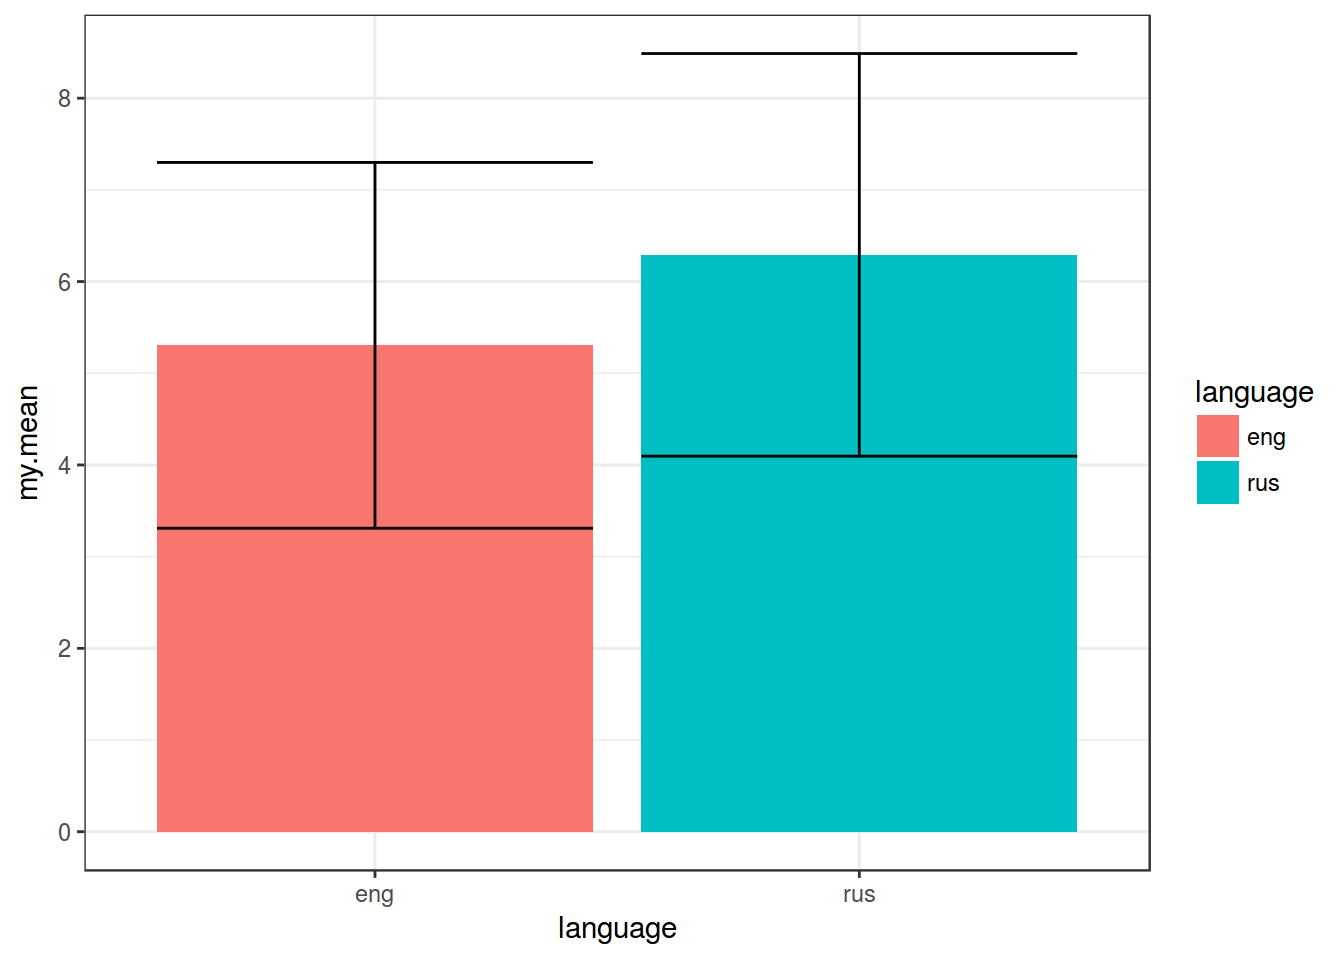
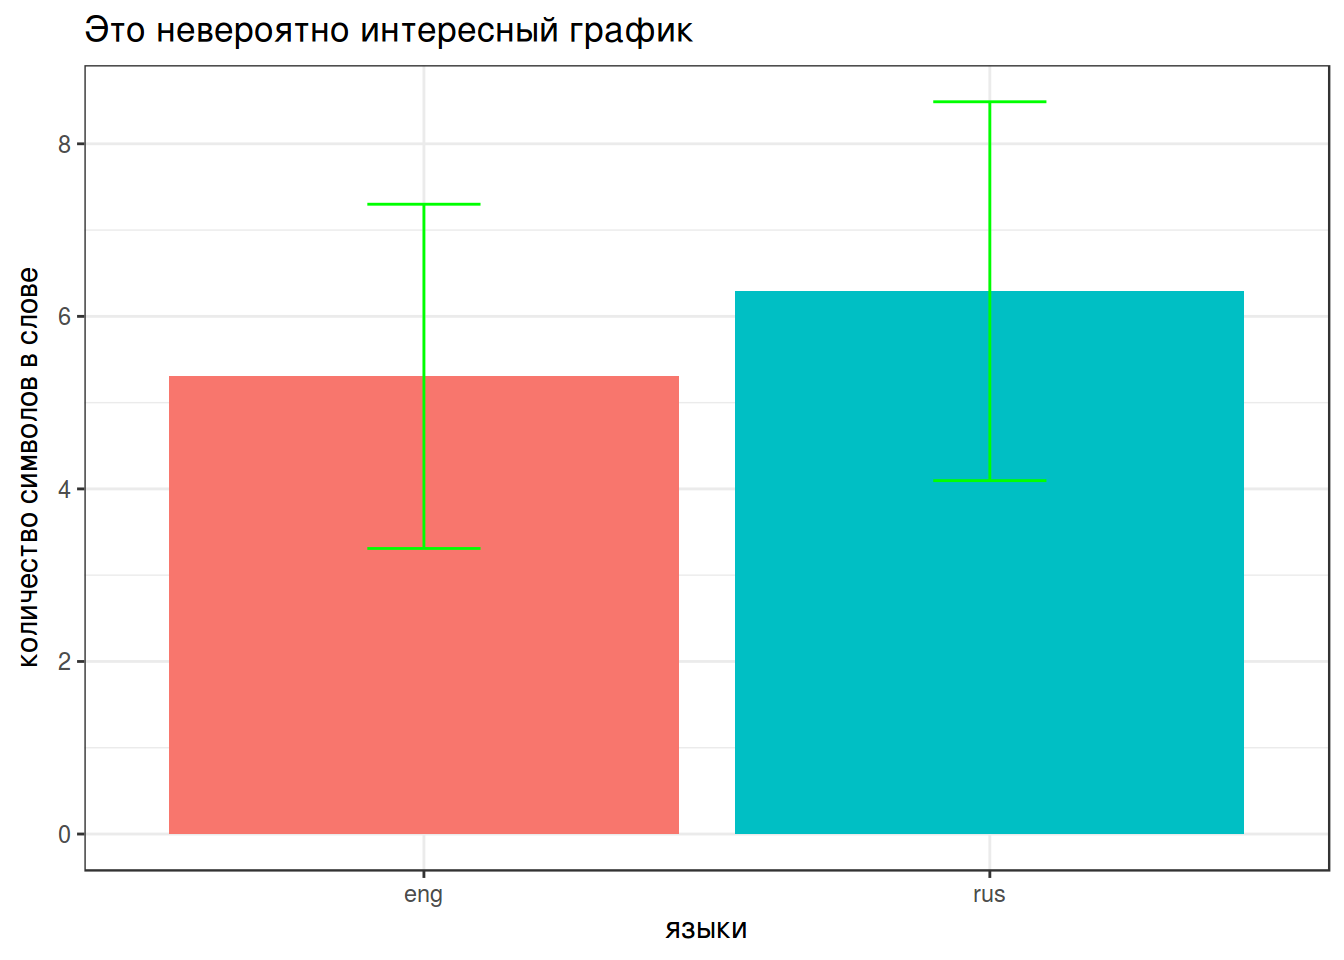
Вт. янв. 31 21:57:35 MSK 2017

diff --git a/docs/Lab_5.html b/docs/Lab_5.html
@@ -260,8 +260,8 @@ mtcars %&gt;%
   p
 
 ggplotly(p)</code></pre>
-<div id="htmlwidget-5e13b1681ace34887a30" style="width:672px;height:480px;" class="plotly html-widget"></div>
-<script type="application/json" data-for="htmlwidget-5e13b1681ace34887a30">{"x":{"data":[{"x":[22.8,24.4,22.8,32.4,30.4,33.9,21.5,27.3,26,30.4,21.4],"y":[108,146.7,140.8,78.7,75.7,71.1,120.1,79,120.3,95.1,121],"text":["mpg: 22.8<br>disp: 108<br>car.name: Datsun 710<br>factor(cyl): 4","mpg: 24.4<br>disp: 146.7<br>car.name: Merc 240D<br>factor(cyl): 4","mpg: 22.8<br>disp: 140.8<br>car.name: Merc 230<br>factor(cyl): 4","mpg: 32.4<br>disp: 78.7<br>car.name: Fiat 128<br>factor(cyl): 4","mpg: 30.4<br>disp: 75.7<br>car.name: Honda Civic<br>factor(cyl): 4","mpg: 33.9<br>disp: 71.1<br>car.name: Toyota Corolla<br>factor(cyl): 4","mpg: 21.5<br>disp: 120.1<br>car.name: Toyota Corona<br>factor(cyl): 4","mpg: 27.3<br>disp: 79<br>car.name: Fiat X1-9<br>factor(cyl): 4","mpg: 26<br>disp: 120.3<br>car.name: Porsche 914-2<br>factor(cyl): 4","mpg: 30.4<br>disp: 95.1<br>car.name: Lotus Europa<br>factor(cyl): 4","mpg: 21.4<br>disp: 121<br>car.name: Volvo 142E<br>factor(cyl): 4"],"key":null,"type":"scatter","mode":"markers","marker":{"autocolorscale":false,"color":"rgba(248,118,109,1)","opacity":1,"size":5.66929133858268,"symbol":"circle","line":{"width":1.88976377952756,"color":"rgba(248,118,109,1)"}},"hoveron":"points","name":"4","legendgroup":"4","showlegend":true,"xaxis":"x","yaxis":"y","hoverinfo":"text"},{"x":[21,21,21.4,18.1,19.2,17.8,19.7],"y":[160,160,258,225,167.6,167.6,145],"text":["mpg: 21<br>disp: 160<br>car.name: Mazda RX4<br>factor(cyl): 6","mpg: 21<br>disp: 160<br>car.name: Mazda RX4 Wag<br>factor(cyl): 6","mpg: 21.4<br>disp: 258<br>car.name: Hornet 4 Drive<br>factor(cyl): 6","mpg: 18.1<br>disp: 225<br>car.name: Valiant<br>factor(cyl): 6","mpg: 19.2<br>disp: 167.6<br>car.name: Merc 280<br>factor(cyl): 6","mpg: 17.8<br>disp: 167.6<br>car.name: Merc 280C<br>factor(cyl): 6","mpg: 19.7<br>disp: 145<br>car.name: Ferrari Dino<br>factor(cyl): 6"],"key":null,"type":"scatter","mode":"markers","marker":{"autocolorscale":false,"color":"rgba(0,186,56,1)","opacity":1,"size":5.66929133858268,"symbol":"circle","line":{"width":1.88976377952756,"color":"rgba(0,186,56,1)"}},"hoveron":"points","name":"6","legendgroup":"6","showlegend":true,"xaxis":"x","yaxis":"y","hoverinfo":"text"},{"x":[18.7,14.3,16.4,17.3,15.2,10.4,10.4,14.7,15.5,15.2,13.3,19.2,15.8,15],"y":[360,360,275.8,275.8,275.8,472,460,440,318,304,350,400,351,301],"text":["mpg: 18.7<br>disp: 360<br>car.name: Hornet Sportabout<br>factor(cyl): 8","mpg: 14.3<br>disp: 360<br>car.name: Duster 360<br>factor(cyl): 8","mpg: 16.4<br>disp: 275.8<br>car.name: Merc 450SE<br>factor(cyl): 8","mpg: 17.3<br>disp: 275.8<br>car.name: Merc 450SL<br>factor(cyl): 8","mpg: 15.2<br>disp: 275.8<br>car.name: Merc 450SLC<br>factor(cyl): 8","mpg: 10.4<br>disp: 472<br>car.name: Cadillac Fleetwood<br>factor(cyl): 8","mpg: 10.4<br>disp: 460<br>car.name: Lincoln Continental<br>factor(cyl): 8","mpg: 14.7<br>disp: 440<br>car.name: Chrysler Imperial<br>factor(cyl): 8","mpg: 15.5<br>disp: 318<br>car.name: Dodge Challenger<br>factor(cyl): 8","mpg: 15.2<br>disp: 304<br>car.name: AMC Javelin<br>factor(cyl): 8","mpg: 13.3<br>disp: 350<br>car.name: Camaro Z28<br>factor(cyl): 8","mpg: 19.2<br>disp: 400<br>car.name: Pontiac Firebird<br>factor(cyl): 8","mpg: 15.8<br>disp: 351<br>car.name: Ford Pantera L<br>factor(cyl): 8","mpg: 15<br>disp: 301<br>car.name: Maserati Bora<br>factor(cyl): 8"],"key":null,"type":"scatter","mode":"markers","marker":{"autocolorscale":false,"color":"rgba(97,156,255,1)","opacity":1,"size":5.66929133858268,"symbol":"circle","line":{"width":1.88976377952756,"color":"rgba(97,156,255,1)"}},"hoveron":"points","name":"8","legendgroup":"8","showlegend":true,"xaxis":"x","yaxis":"y","hoverinfo":"text"}],"layout":{"margin":{"t":26.2283105022831,"r":7.30593607305936,"b":40.1826484018265,"l":43.1050228310502},"plot_bgcolor":"rgba(235,235,235,1)","paper_bgcolor":"rgba(255,255,255,1)","font":{"color":"rgba(0,0,0,1)","family":"","size":14.6118721461187},"xaxis":{"domain":[0,1],"type":"linear","autorange":false,"tickmode":"array","range":[9.225,35.075],"ticktext":["10","15","20","25","30","35"],"tickvals":[10,15,20,25,30,35],"ticks":"outside","tickcolor":"rgba(51,51,51,1)","ticklen":3.65296803652968,"tickwidth":0.66417600664176,"showticklabels":true,"tickfont":{"color":"rgba(77,77,77,1)","family":"","size":11.689497716895},"tickangle":-0,"showline":false,"linecolor":null,"linewidth":0,"showgrid":true,"gridcolor":"rgba(255,255,255,1)","gridwidth":0.66417600664176,"zeroline":false,"anchor":"y","title":"mpg","titlefont":{"color":"rgba(0,0,0,1)","family":"","size":14.6118721461187},"hoverformat":".2f"},"yaxis":{"domain":[0,1],"type":"linear","autorange":false,"tickmode":"array","range":[51.055,492.045],"ticktext":["100","200","300","400"],"tickvals":[100,200,300,400],"ticks":"outside","tickcolor":"rgba(51,51,51,1)","ticklen":3.65296803652968,"tickwidth":0.66417600664176,"showticklabels":true,"tickfont":{"color":"rgba(77,77,77,1)","family":"","size":11.689497716895},"tickangle":-0,"showline":false,"linecolor":null,"linewidth":0,"showgrid":true,"gridcolor":"rgba(255,255,255,1)","gridwidth":0.66417600664176,"zeroline":false,"anchor":"x","title":"disp","titlefont":{"color":"rgba(0,0,0,1)","family":"","size":14.6118721461187},"hoverformat":".2f"},"shapes":[{"type":"rect","fillcolor":null,"line":{"color":null,"width":0,"linetype":[]},"yref":"paper","xref":"paper","x0":0,"x1":1,"y0":0,"y1":1}],"showlegend":true,"legend":{"bgcolor":"rgba(255,255,255,1)","bordercolor":"transparent","borderwidth":1.88976377952756,"font":{"color":"rgba(0,0,0,1)","family":"","size":11.689497716895},"y":0.93503937007874},"annotations":[{"text":"factor(cyl)","x":1.02,"y":1,"showarrow":false,"ax":0,"ay":0,"font":{"color":"rgba(0,0,0,1)","family":"","size":14.6118721461187},"xref":"paper","yref":"paper","textangle":-0,"xanchor":"left","yanchor":"bottom","legendTitle":true}],"hovermode":"closest"},"source":"A","config":{"modeBarButtonsToAdd":[{"name":"Collaborate","icon":{"width":1000,"ascent":500,"descent":-50,"path":"M487 375c7-10 9-23 5-36l-79-259c-3-12-11-23-22-31-11-8-22-12-35-12l-263 0c-15 0-29 5-43 15-13 10-23 23-28 37-5 13-5 25-1 37 0 0 0 3 1 7 1 5 1 8 1 11 0 2 0 4-1 6 0 3-1 5-1 6 1 2 2 4 3 6 1 2 2 4 4 6 2 3 4 5 5 7 5 7 9 16 13 26 4 10 7 19 9 26 0 2 0 5 0 9-1 4-1 6 0 8 0 2 2 5 4 8 3 3 5 5 5 7 4 6 8 15 12 26 4 11 7 19 7 26 1 1 0 4 0 9-1 4-1 7 0 8 1 2 3 5 6 8 4 4 6 6 6 7 4 5 8 13 13 24 4 11 7 20 7 28 1 1 0 4 0 7-1 3-1 6-1 7 0 2 1 4 3 6 1 1 3 4 5 6 2 3 3 5 5 6 1 2 3 5 4 9 2 3 3 7 5 10 1 3 2 6 4 10 2 4 4 7 6 9 2 3 4 5 7 7 3 2 7 3 11 3 3 0 8 0 13-1l0-1c7 2 12 2 14 2l218 0c14 0 25-5 32-16 8-10 10-23 6-37l-79-259c-7-22-13-37-20-43-7-7-19-10-37-10l-248 0c-5 0-9-2-11-5-2-3-2-7 0-12 4-13 18-20 41-20l264 0c5 0 10 2 16 5 5 3 8 6 10 11l85 282c2 5 2 10 2 17 7-3 13-7 17-13z m-304 0c-1-3-1-5 0-7 1-1 3-2 6-2l174 0c2 0 4 1 7 2 2 2 4 4 5 7l6 18c0 3 0 5-1 7-1 1-3 2-6 2l-173 0c-3 0-5-1-8-2-2-2-4-4-4-7z m-24-73c-1-3-1-5 0-7 2-2 3-2 6-2l174 0c2 0 5 0 7 2 3 2 4 4 5 7l6 18c1 2 0 5-1 6-1 2-3 3-5 3l-174 0c-3 0-5-1-7-3-3-1-4-4-5-6z"},"click":"function(gd) { \n        // is this being viewed in RStudio?\n        if (location.search == '?viewer_pane=1') {\n          alert('To learn about plotly for collaboration, visit:\\n https://cpsievert.github.io/plotly_book/plot-ly-for-collaboration.html');\n        } else {\n          window.open('https://cpsievert.github.io/plotly_book/plot-ly-for-collaboration.html', '_blank');\n        }\n      }"}],"modeBarButtonsToRemove":["sendDataToCloud"]},"base_url":"https://plot.ly"},"evals":["config.modeBarButtonsToAdd.0.click"],"jsHooks":[]}</script>
+<div id="htmlwidget-f9fd5c7c1101c2017664" style="width:672px;height:480px;" class="plotly html-widget"></div>
+<script type="application/json" data-for="htmlwidget-f9fd5c7c1101c2017664">{"x":{"data":[{"x":[22.8,24.4,22.8,32.4,30.4,33.9,21.5,27.3,26,30.4,21.4],"y":[108,146.7,140.8,78.7,75.7,71.1,120.1,79,120.3,95.1,121],"text":["mpg: 22.8<br>disp: 108<br>car.name: Datsun 710<br>factor(cyl): 4","mpg: 24.4<br>disp: 146.7<br>car.name: Merc 240D<br>factor(cyl): 4","mpg: 22.8<br>disp: 140.8<br>car.name: Merc 230<br>factor(cyl): 4","mpg: 32.4<br>disp: 78.7<br>car.name: Fiat 128<br>factor(cyl): 4","mpg: 30.4<br>disp: 75.7<br>car.name: Honda Civic<br>factor(cyl): 4","mpg: 33.9<br>disp: 71.1<br>car.name: Toyota Corolla<br>factor(cyl): 4","mpg: 21.5<br>disp: 120.1<br>car.name: Toyota Corona<br>factor(cyl): 4","mpg: 27.3<br>disp: 79<br>car.name: Fiat X1-9<br>factor(cyl): 4","mpg: 26<br>disp: 120.3<br>car.name: Porsche 914-2<br>factor(cyl): 4","mpg: 30.4<br>disp: 95.1<br>car.name: Lotus Europa<br>factor(cyl): 4","mpg: 21.4<br>disp: 121<br>car.name: Volvo 142E<br>factor(cyl): 4"],"key":null,"type":"scatter","mode":"markers","marker":{"autocolorscale":false,"color":"rgba(248,118,109,1)","opacity":1,"size":5.66929133858268,"symbol":"circle","line":{"width":1.88976377952756,"color":"rgba(248,118,109,1)"}},"hoveron":"points","name":"4","legendgroup":"4","showlegend":true,"xaxis":"x","yaxis":"y","hoverinfo":"text"},{"x":[21,21,21.4,18.1,19.2,17.8,19.7],"y":[160,160,258,225,167.6,167.6,145],"text":["mpg: 21<br>disp: 160<br>car.name: Mazda RX4<br>factor(cyl): 6","mpg: 21<br>disp: 160<br>car.name: Mazda RX4 Wag<br>factor(cyl): 6","mpg: 21.4<br>disp: 258<br>car.name: Hornet 4 Drive<br>factor(cyl): 6","mpg: 18.1<br>disp: 225<br>car.name: Valiant<br>factor(cyl): 6","mpg: 19.2<br>disp: 167.6<br>car.name: Merc 280<br>factor(cyl): 6","mpg: 17.8<br>disp: 167.6<br>car.name: Merc 280C<br>factor(cyl): 6","mpg: 19.7<br>disp: 145<br>car.name: Ferrari Dino<br>factor(cyl): 6"],"key":null,"type":"scatter","mode":"markers","marker":{"autocolorscale":false,"color":"rgba(0,186,56,1)","opacity":1,"size":5.66929133858268,"symbol":"circle","line":{"width":1.88976377952756,"color":"rgba(0,186,56,1)"}},"hoveron":"points","name":"6","legendgroup":"6","showlegend":true,"xaxis":"x","yaxis":"y","hoverinfo":"text"},{"x":[18.7,14.3,16.4,17.3,15.2,10.4,10.4,14.7,15.5,15.2,13.3,19.2,15.8,15],"y":[360,360,275.8,275.8,275.8,472,460,440,318,304,350,400,351,301],"text":["mpg: 18.7<br>disp: 360<br>car.name: Hornet Sportabout<br>factor(cyl): 8","mpg: 14.3<br>disp: 360<br>car.name: Duster 360<br>factor(cyl): 8","mpg: 16.4<br>disp: 275.8<br>car.name: Merc 450SE<br>factor(cyl): 8","mpg: 17.3<br>disp: 275.8<br>car.name: Merc 450SL<br>factor(cyl): 8","mpg: 15.2<br>disp: 275.8<br>car.name: Merc 450SLC<br>factor(cyl): 8","mpg: 10.4<br>disp: 472<br>car.name: Cadillac Fleetwood<br>factor(cyl): 8","mpg: 10.4<br>disp: 460<br>car.name: Lincoln Continental<br>factor(cyl): 8","mpg: 14.7<br>disp: 440<br>car.name: Chrysler Imperial<br>factor(cyl): 8","mpg: 15.5<br>disp: 318<br>car.name: Dodge Challenger<br>factor(cyl): 8","mpg: 15.2<br>disp: 304<br>car.name: AMC Javelin<br>factor(cyl): 8","mpg: 13.3<br>disp: 350<br>car.name: Camaro Z28<br>factor(cyl): 8","mpg: 19.2<br>disp: 400<br>car.name: Pontiac Firebird<br>factor(cyl): 8","mpg: 15.8<br>disp: 351<br>car.name: Ford Pantera L<br>factor(cyl): 8","mpg: 15<br>disp: 301<br>car.name: Maserati Bora<br>factor(cyl): 8"],"key":null,"type":"scatter","mode":"markers","marker":{"autocolorscale":false,"color":"rgba(97,156,255,1)","opacity":1,"size":5.66929133858268,"symbol":"circle","line":{"width":1.88976377952756,"color":"rgba(97,156,255,1)"}},"hoveron":"points","name":"8","legendgroup":"8","showlegend":true,"xaxis":"x","yaxis":"y","hoverinfo":"text"}],"layout":{"margin":{"t":26.2283105022831,"r":7.30593607305936,"b":40.1826484018265,"l":43.1050228310502},"plot_bgcolor":"rgba(235,235,235,1)","paper_bgcolor":"rgba(255,255,255,1)","font":{"color":"rgba(0,0,0,1)","family":"","size":14.6118721461187},"xaxis":{"domain":[0,1],"type":"linear","autorange":false,"tickmode":"array","range":[9.225,35.075],"ticktext":["10","15","20","25","30","35"],"tickvals":[10,15,20,25,30,35],"ticks":"outside","tickcolor":"rgba(51,51,51,1)","ticklen":3.65296803652968,"tickwidth":0.66417600664176,"showticklabels":true,"tickfont":{"color":"rgba(77,77,77,1)","family":"","size":11.689497716895},"tickangle":-0,"showline":false,"linecolor":null,"linewidth":0,"showgrid":true,"gridcolor":"rgba(255,255,255,1)","gridwidth":0.66417600664176,"zeroline":false,"anchor":"y","title":"mpg","titlefont":{"color":"rgba(0,0,0,1)","family":"","size":14.6118721461187},"hoverformat":".2f"},"yaxis":{"domain":[0,1],"type":"linear","autorange":false,"tickmode":"array","range":[51.055,492.045],"ticktext":["100","200","300","400"],"tickvals":[100,200,300,400],"ticks":"outside","tickcolor":"rgba(51,51,51,1)","ticklen":3.65296803652968,"tickwidth":0.66417600664176,"showticklabels":true,"tickfont":{"color":"rgba(77,77,77,1)","family":"","size":11.689497716895},"tickangle":-0,"showline":false,"linecolor":null,"linewidth":0,"showgrid":true,"gridcolor":"rgba(255,255,255,1)","gridwidth":0.66417600664176,"zeroline":false,"anchor":"x","title":"disp","titlefont":{"color":"rgba(0,0,0,1)","family":"","size":14.6118721461187},"hoverformat":".2f"},"shapes":[{"type":"rect","fillcolor":null,"line":{"color":null,"width":0,"linetype":[]},"yref":"paper","xref":"paper","x0":0,"x1":1,"y0":0,"y1":1}],"showlegend":true,"legend":{"bgcolor":"rgba(255,255,255,1)","bordercolor":"transparent","borderwidth":1.88976377952756,"font":{"color":"rgba(0,0,0,1)","family":"","size":11.689497716895},"y":0.93503937007874},"annotations":[{"text":"factor(cyl)","x":1.02,"y":1,"showarrow":false,"ax":0,"ay":0,"font":{"color":"rgba(0,0,0,1)","family":"","size":14.6118721461187},"xref":"paper","yref":"paper","textangle":-0,"xanchor":"left","yanchor":"bottom","legendTitle":true}],"hovermode":"closest"},"source":"A","config":{"modeBarButtonsToAdd":[{"name":"Collaborate","icon":{"width":1000,"ascent":500,"descent":-50,"path":"M487 375c7-10 9-23 5-36l-79-259c-3-12-11-23-22-31-11-8-22-12-35-12l-263 0c-15 0-29 5-43 15-13 10-23 23-28 37-5 13-5 25-1 37 0 0 0 3 1 7 1 5 1 8 1 11 0 2 0 4-1 6 0 3-1 5-1 6 1 2 2 4 3 6 1 2 2 4 4 6 2 3 4 5 5 7 5 7 9 16 13 26 4 10 7 19 9 26 0 2 0 5 0 9-1 4-1 6 0 8 0 2 2 5 4 8 3 3 5 5 5 7 4 6 8 15 12 26 4 11 7 19 7 26 1 1 0 4 0 9-1 4-1 7 0 8 1 2 3 5 6 8 4 4 6 6 6 7 4 5 8 13 13 24 4 11 7 20 7 28 1 1 0 4 0 7-1 3-1 6-1 7 0 2 1 4 3 6 1 1 3 4 5 6 2 3 3 5 5 6 1 2 3 5 4 9 2 3 3 7 5 10 1 3 2 6 4 10 2 4 4 7 6 9 2 3 4 5 7 7 3 2 7 3 11 3 3 0 8 0 13-1l0-1c7 2 12 2 14 2l218 0c14 0 25-5 32-16 8-10 10-23 6-37l-79-259c-7-22-13-37-20-43-7-7-19-10-37-10l-248 0c-5 0-9-2-11-5-2-3-2-7 0-12 4-13 18-20 41-20l264 0c5 0 10 2 16 5 5 3 8 6 10 11l85 282c2 5 2 10 2 17 7-3 13-7 17-13z m-304 0c-1-3-1-5 0-7 1-1 3-2 6-2l174 0c2 0 4 1 7 2 2 2 4 4 5 7l6 18c0 3 0 5-1 7-1 1-3 2-6 2l-173 0c-3 0-5-1-8-2-2-2-4-4-4-7z m-24-73c-1-3-1-5 0-7 2-2 3-2 6-2l174 0c2 0 5 0 7 2 3 2 4 4 5 7l6 18c1 2 0 5-1 6-1 2-3 3-5 3l-174 0c-3 0-5-1-7-3-3-1-4-4-5-6z"},"click":"function(gd) { \n        // is this being viewed in RStudio?\n        if (location.search == '?viewer_pane=1') {\n          alert('To learn about plotly for collaboration, visit:\\n https://cpsievert.github.io/plotly_book/plot-ly-for-collaboration.html');\n        } else {\n          window.open('https://cpsievert.github.io/plotly_book/plot-ly-for-collaboration.html', '_blank');\n        }\n      }"}],"modeBarButtonsToRemove":["sendDataToCloud"]},"base_url":"https://plot.ly"},"evals":["config.modeBarButtonsToAdd.0.click"],"jsHooks":[]}</script>
 </div>
 <div id="flex-dashboards" class="section level2">
 <h2>Flex Dashboards</h2>

diff --git a/docs/Lab_7.html b/docs/Lab_7.html
@@ -351,7 +351,11 @@ str(words)</code></pre>
   ggplot(aes(x = language, y = my.mean, fill = language))+
   geom_bar(stat = &quot;identity&quot;)+
   theme_bw()+
-  geom_errorbar(aes(ymin = my.min, ymax = my.max))</code></pre>
+  geom_errorbar(aes(ymin = my.min, ymax = my.max), width = 0.2, color = &quot;green&quot;)+
+  xlab(&quot;языки&quot;)+
+  ylab(&quot;количество символов в слове&quot;)+
+  labs(title = &quot;Это невероятно интересный график&quot;)+
+  guides(fill=FALSE)</code></pre>
 <p><img src="Lab_7_files/figure-html/unnamed-chunk-7-1.png" width="672" /></p>
 </div>
 </div>
